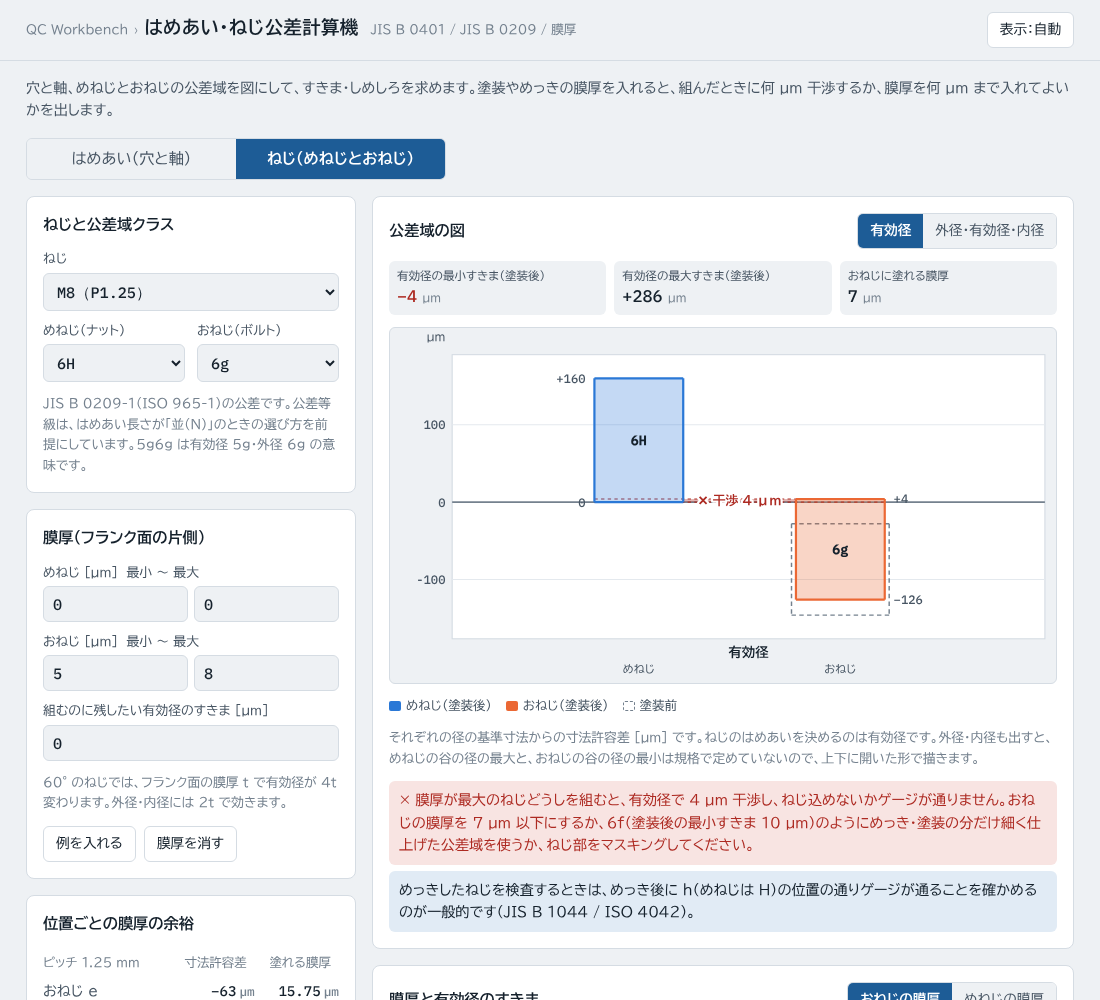
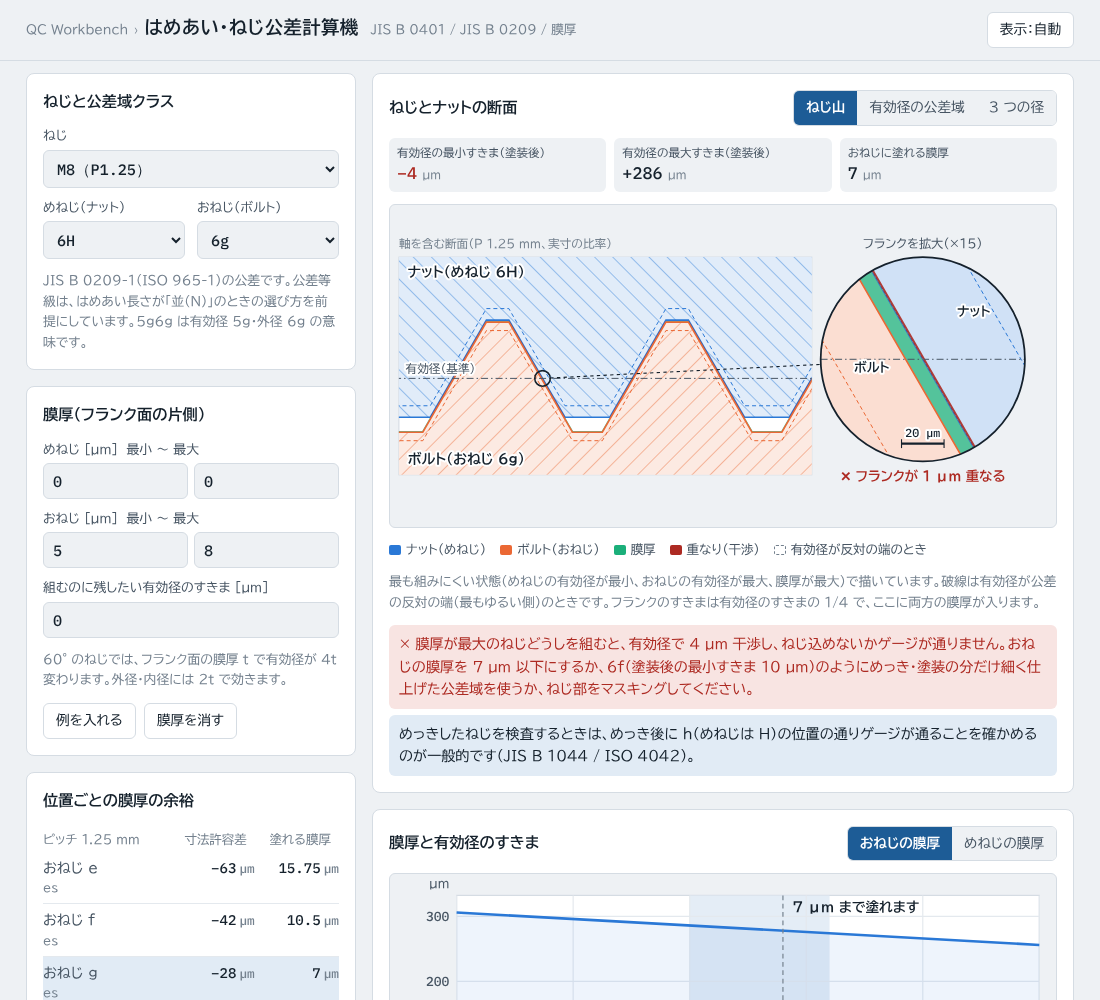
ねじの図をねじとナットの断面にし、フランクの拡大図を付ける

diff --git a/js/app.js b/js/app.js
@@ -21,7 +21,7 @@
   // ---- 状態 ----
   const FIT_EX = { D: '25', hl: 'H', hg: '7', sl: 'g', sg: '6', th0: '0', th1: '0', ts0: '10', ts1: '20', creq: '0' };
   const THR_EX = { sel: '8|1.25', d: '', P: '', ic: '6H', ec: '6g', ti0: '0', ti1: '0', te0: '5', te1: '8', creq: '0' };
-  const DEF = { mode: 'fit', fit: { ...FIT_EX, sweep: 's', list: 'hole' }, thr: { ...THR_EX, sweep: 'e', zone: 'pitch' } };
+  const DEF = { mode: 'fit', fit: { ...FIT_EX, sweep: 's', list: 'hole' }, thr: { ...THR_EX, sweep: 'e', zone: 'shape' } };
   let st = store.get(KEY);
   if (!st || !st.fit || !st.thr) st = JSON.parse(JSON.stringify(DEF));
   st.fit = { ...DEF.fit, ...st.fit }; st.thr = { ...DEF.thr, ...st.thr };
@@ -370,7 +370,7 @@
       ['有効径の最大すきま' + (coated ? '（塗装後）' : ''), sU(r.coated.cmax), 'µm', ''],
       [r.coat.i[1] > 0 && r.coat.e[1] === 0 ? 'めねじに塗れる膜厚' : 'おねじに塗れる膜厚', fU(Math.max(0, allowE)), 'µm', allowE < 0 ? 'ng' : '']
     ].map(([a, v, u, c]) => `<div class="${c}"><span>${esc(a)}</span><b>${esc(v)}</b> <small>${u}</small></div>`).join('');
-    drawThrZone(r, creq);
+    drawThrFigure(r, creq);
     drawSweep($('tSweepFig'), {
       k: 4, cmin0: r.bare.cmin, cmax0: r.bare.cmax, creq,
       otherMin: st.thr.sweep === 'e' ? r.coat.i[0] : r.coat.e[0], otherMax: st.thr.sweep === 'e' ? r.coat.i[1] : r.coat.e[1],
@@ -487,6 +487,133 @@
     s += `<text x="${L - 8}" y="${T - 10}" font-size="10" fill="${css('--ng')}" text-anchor="end">✕ 干渉あり</text>`;
     el.innerHTML = s + '</svg>';
     el.querySelectorAll('.pick').forEach(g => g.addEventListener('click', () => { st.thr.ec = g.dataset.c; fillInputs(); save(); render(); }));
+  }
+
+  // ねじとナットの断面（軸を含む断面）。左は実寸の比率、右の円は 1 つのフランクを拡大した図
+  // 最も組みにくい状態（めねじの有効径が最小・おねじの有効径が最大・膜厚が最大）で描く
+  // 座標は mm。x は軸方向、y は半径方向（有効径の基準の位置を 0、外向きを正）
+  function drawThrShape(r, creq) {
+    const el = $('tZone');
+    const narrow = el.clientWidth && el.clientWidth < 480;
+    const W = narrow ? 400 : 600, Hh = narrow ? 270 : 290;
+    const P = r.P, H = r.H, tn = Math.tan(Math.PI / 6);
+    const te = r.coat.e[1] / 1000, ti = r.coat.i[1] / 1000;          // 膜厚 [mm]
+    const se = r.ext.es / 2000, si = r.int.EI / 2000;                // 半径方向のずれ [mm]
+    const seL = (r.ext.es - r.ext.Td2) / 2000, siL = (r.int.EI + r.int.TD2) / 2000; // 最小実体
+    const yBc = 3 * H / 8, yBr = -H / 3, yNc = -H / 4, yNr = 3 * H / 8; // 山の頂と谷（基準）
+    const wBr = P / 4 + (H / 3) * tn;                                  // おねじの谷での山の半幅
+    const k0 = -3, k1 = 5;
+    const boltPath = sh => {
+      let d = `M${k0 * P - P / 2} ${-1.2 * H}`;
+      for (let k = k0; k <= k1; k++) {
+        d += ` L${k * P - wBr} ${yBr + sh} L${k * P - P / 16} ${yBc + sh} L${k * P + P / 16} ${yBc + sh} L${k * P + wBr} ${yBr + sh}`;
+      }
+      return d + ` L${k1 * P + P / 2} ${-1.2 * H} Z`;
+    };
+    const nutPath = sh => {
+      let d = `M${k0 * P} ${1.4 * H}`;
+      for (let k = k0; k <= k1; k++) {
+        const c = k * P + P / 2;
+        d += ` L${c - 7 * P / 16} ${yNr + sh} L${c - P / 8} ${yNc + sh} L${c + P / 8} ${yNc + sh} L${c + 7 * P / 16} ${yNr + sh}`;
+      }
+      return d + ` L${(k1 + 1) * P} ${1.4 * H} Z`;
+    };
+    const bP = boltPath(se), nP = nutPath(si), bL = boltPath(seL), nL = nutPath(siL);
+    const c1 = css('--s1'), c2 = css('--s2'), c3 = css('--s3'), ng = css('--ng'), sf = css('--surface'), ink = css('--ink'), ink2 = css('--ink2'), mut = css('--muted'), nf = NUMF();
+    const nsk = 'vector-effect="non-scaling-stroke"';
+    const halo = `paint-order="stroke" stroke="${sf}" stroke-width="3.5" stroke-linejoin="round"`;
+    // 部品と膜厚と重なりを描く（mm 座標）。hatch：断面のハッチングを付けるか
+    const layers = hatch => {
+      let s = '';
+      // 膜厚：輪郭に幅 2t の線を引き、内側の半分を本体の塗りで隠す
+      if (ti > 0) s += `<path d="${nP}" fill="none" stroke="${c3}" stroke-opacity=".75" stroke-width="${2 * ti}" stroke-linejoin="miter"/>`;
+      if (te > 0) s += `<path d="${bP}" fill="none" stroke="${c3}" stroke-opacity=".75" stroke-width="${2 * te}" stroke-linejoin="miter"/>`;
+      s += `<path d="${nP}" fill="${sf}"/><path d="${nP}" fill="${hatch ? 'url(#fcHatchN)' : c1}" fill-opacity="${hatch ? 1 : .22}" stroke="${c1}" stroke-width="1.6" ${nsk}/>`;
+      s += `<path d="${bP}" fill="${sf}"/><path d="${bP}" fill="${hatch ? 'url(#fcHatchB)' : c2}" fill-opacity="${hatch ? 1 : .22}" stroke="${c2}" stroke-width="1.6" ${nsk}/>`;
+      // 重なり（干渉）：おねじ（膜厚込み）の形で切り抜いたナット（膜厚込み）を赤で塗る
+      s += `<path d="${nP}" fill="${ng}" stroke="${ng}" stroke-width="${2 * ti}" fill-opacity=".9" stroke-opacity=".9" mask="url(#fcMaskB)"/>`;
+      // 最小実体の輪郭（有効径が公差の反対側の端のとき）
+      s += `<path d="${nL}" fill="none" stroke="${c1}" stroke-width="1" stroke-dasharray="4 3" ${nsk}/><path d="${bL}" fill="none" stroke="${c2}" stroke-width="1" stroke-dasharray="4 3" ${nsk}/>`;
+      // 有効径の基準の位置
+      s += `<line x1="${k0 * P}" x2="${k1 * P}" y1="0" y2="0" stroke="${ink2}" stroke-width="1" stroke-dasharray="7 3 1.5 3" ${nsk}/>`;
+      return s;
+    };
+
+    // ---- 配置 ----
+    const sx0 = 8, sx1 = narrow ? 250 : 380, sy0 = 26, sy1 = Hh - 26;   // 断面図の枠（px）
+    const xa = -0.55 * P, xb = 1.75 * P, ya = -0.62 * H, yb = 0.78 * H; // 見せる範囲（mm）
+    const sc = Math.min((sx1 - sx0) / (xb - xa), (sy1 - sy0) / (yb - ya));
+    const ox = sx0 + ((sx1 - sx0) - (xb - xa) * sc) / 2 - xa * sc, oy = sy0 + ((sy1 - sy0) - (yb - ya) * sc) / 2 + yb * sc;
+    const T = `translate(${ox} ${oy}) scale(${sc} ${-sc})`;
+    const toPx = (x, y) => [ox + x * sc, oy - y * sc];
+
+    // 拡大の中心：おねじの山 0 の右のフランクが有効径の基準を横切る点
+    const fx = P / 4, fy = 0;
+    // 拡大の半径（mm）：フランクのずれと膜厚がちょうど収まる大きさ
+    const feat = Math.max(Math.abs(r.ext.es) / 4 + r.coat.e[1], r.int.EI / 4 + r.coat.i[1], Math.abs(r.coated.cmin) / 4, 4) / 1000;
+    const Rz = feat * 3.2;
+    const zr = narrow ? 66 : 92, zcx = narrow ? W - zr - 10 : W - zr - 28, zcy = Hh / 2 - 6;
+    const zs = zr / Rz, mag = zs / sc;
+    const TZ = `translate(${zcx - fx * zs} ${zcy + fy * zs}) scale(${zs} ${-zs})`;
+
+    let s = svgOpen(W, Hh, 'ねじとナットの断面の図') + arrowDef();
+    // 定義：ハッチング、切り抜き、重なりのマスク（すべて mm 座標）
+    const hs = P / 14;
+    s += `<defs>
+      <pattern id="fcHatchN" patternUnits="userSpaceOnUse" width="${hs}" height="${hs}" patternTransform="rotate(45)"><rect width="${hs}" height="${hs}" fill="${c1}" fill-opacity=".14"/><line x1="0" y1="0" x2="0" y2="${hs}" stroke="${c1}" stroke-opacity=".55" stroke-width="${hs * 0.12}"/></pattern>
+      <pattern id="fcHatchB" patternUnits="userSpaceOnUse" width="${hs}" height="${hs}" patternTransform="rotate(-45)"><rect width="${hs}" height="${hs}" fill="${c2}" fill-opacity=".14"/><line x1="0" y1="0" x2="0" y2="${hs}" stroke="${c2}" stroke-opacity=".55" stroke-width="${hs * 0.12}"/></pattern>
+      <mask id="fcMaskB" maskUnits="userSpaceOnUse" maskContentUnits="userSpaceOnUse" x="${k0 * P - P}" y="${-2 * H}" width="${(k1 - k0 + 2) * P}" height="${4 * H}"><path d="${bP}" fill="#fff" stroke="#fff" stroke-width="${2 * te}" stroke-linejoin="miter"/></mask>
+      <clipPath id="fcClipS" clipPathUnits="userSpaceOnUse"><rect x="${xa}" y="${ya}" width="${xb - xa}" height="${yb - ya}"/></clipPath>
+      <clipPath id="fcClipZ" clipPathUnits="userSpaceOnUse"><circle cx="${fx}" cy="${fy}" r="${Rz}"/></clipPath>
+    </defs>`;
+    // 断面図
+    const [bx0, by0] = toPx(xa, yb), [bx1, by1] = toPx(xb, ya);
+    s += `<rect x="${bx0}" y="${by0}" width="${bx1 - bx0}" height="${by1 - by0}" fill="${sf}" stroke="${css('--line')}"/>`;
+    s += `<g transform="${T}"><g clip-path="url(#fcClipS)">${layers(true)}</g></g>`;
+    s += `<text x="${bx0 + 8}" y="${by0 + 18}" font-size="12.5" font-weight="700" fill="${ink}" ${halo}>ナット（めねじ ${esc(r.int.name)}）</text>`;
+    s += `<text x="${bx0 + 8}" y="${by1 - 10}" font-size="12.5" font-weight="700" fill="${ink}" ${halo}>ボルト（おねじ ${esc(r.ext.name)}）</text>`;
+    const [lx, ly] = toPx(xa, 0);
+    s += `<text x="${lx + 6}" y="${ly - 5}" font-size="10.5" fill="${ink2}" ${halo}>有効径（基準）</text>`;
+    s += `<text x="${bx0}" y="${by0 - 8}" font-size="10.5" fill="${mut}">軸を含む断面（P ${esc(fmt(P, P % 1 ? 2 : 0))} mm、実寸の比率）</text>`;
+    // 拡大の目印と引出線
+    const [px, py] = toPx(fx, fy), pr = Math.max(7, Rz * sc);
+    const ang = Math.atan2(zcy - py, zcx - px);
+    s += `<circle cx="${px}" cy="${py}" r="${pr}" fill="none" stroke="${ink}" stroke-width="1.4"/>`;
+    s += `<line x1="${px + pr * Math.cos(ang)}" y1="${py + pr * Math.sin(ang)}" x2="${zcx - zr * Math.cos(ang)}" y2="${zcy - zr * Math.sin(ang)}" stroke="${ink}" stroke-width="1" stroke-dasharray="3 3"/>`;
+    // 拡大図
+    s += `<circle cx="${zcx}" cy="${zcy}" r="${zr}" fill="${sf}"/>`;
+    s += `<g transform="${TZ}"><g clip-path="url(#fcClipZ)">${layers(false)}`;
+    // 基準のフランクの線（膜厚・寸法差がないときの位置）
+    const fl = (x0, y0, sgn) => `<line x1="${x0 - sgn * 2 * Rz * tn}" y1="${y0 - 2 * Rz}" x2="${x0 + sgn * 2 * Rz * tn}" y2="${y0 + 2 * Rz}" stroke="${mut}" stroke-width="1" stroke-dasharray="2 3" ${nsk}/>`;
+    s += fl(P / 4, 0, -1) + `</g></g>`;
+    s += `<circle cx="${zcx}" cy="${zcy}" r="${zr}" fill="none" stroke="${ink}" stroke-width="1.6"/>`;
+    // 拡大図の中の名前
+    const zp = (x, y) => [zcx + (x - fx) * zs, zcy - (y - fy) * zs];
+    const [nx, ny] = zp(fx + 0.5 * Rz, fy + 0.42 * Rz), [bx2, by2] = zp(fx - 0.5 * Rz, fy - 0.12 * Rz);
+    s += `<text x="${nx}" y="${ny}" font-size="11.5" font-weight="700" fill="${ink}" text-anchor="middle" ${halo}>ナット</text><text x="${bx2}" y="${by2}" font-size="11.5" font-weight="700" fill="${ink}" text-anchor="middle" ${halo}>ボルト</text>`;
+    // 目盛（µm）
+    const barUm = [1, 2, 5, 10, 20, 50, 100].find(v => v / 1000 * zs >= zr * 0.35) || 100;
+    const bw = barUm / 1000 * zs, bx = zcx - bw / 2, by = zcy + zr - 16;
+    s += `<line x1="${bx}" x2="${bx + bw}" y1="${by}" y2="${by}" stroke="${ink}" stroke-width="2"/><line x1="${bx}" x2="${bx}" y1="${by - 4}" y2="${by + 4}" stroke="${ink}"/><line x1="${bx + bw}" x2="${bx + bw}" y1="${by - 4}" y2="${by + 4}" stroke="${ink}"/>`;
+    s += `<text x="${zcx}" y="${by - 6}" font-size="10.5" fill="${ink}" text-anchor="middle" font-family="${nf}" ${halo}>${barUm} µm</text>`;
+    s += `<text x="${zcx}" y="${zcy - zr - 8}" font-size="11" fill="${ink2}" text-anchor="middle">フランクを拡大（×${esc(fmt(mag, 0))}）</text>`;
+    // フランクのすきま（法線方向）= 有効径のすきま ÷ 4
+    const g = r.coated.cmin / 4, bad = r.coated.cmin < creq;
+    s += `<text x="${zcx}" y="${zcy + zr + 18}" font-size="12" font-weight="700" fill="${bad ? ng : ink}" text-anchor="middle">${esc(g < 0 ? `✕ フランクが ${fU(-g)} µm 重なる` : `フランクのすきま ${fU(g)} µm`)}</text>`;
+    el.innerHTML = s + '</svg>';
+  }
+
+  // ねじの図の切り替え
+  function drawThrFigure(r, creq) {
+    const shape = st.thr.zone === 'shape' || !st.thr.zone;
+    $('tFigTitle').textContent = shape ? 'ねじとナットの断面' : '公差域の図';
+    $('tLegend').innerHTML = shape
+      ? `<span style="--c:var(--s1)">ナット（めねじ）</span><span style="--c:var(--s2)">ボルト（おねじ）</span><span style="--c:var(--s3)">膜厚</span><span style="--c:var(--ng)">重なり（干渉）</span><span class="dash" style="--c:var(--muted)">有効径が反対の端のとき</span>`
+      : `<span style="--c:var(--s1)">めねじ（塗装後）</span><span style="--c:var(--s2)">おねじ（塗装後）</span><span class="dash" style="--c:var(--muted)">塗装前</span>`;
+    $('tFigHint').textContent = shape
+      ? '最も組みにくい状態（めねじの有効径が最小、おねじの有効径が最大、膜厚が最大）で描いています。破線は有効径が公差の反対の端（最もゆるい側）のときです。フランクのすきまは有効径のすきまの 1/4 で、ここに両方の膜厚が入ります。'
+      : 'それぞれの径の基準寸法からの寸法許容差 [µm] です。ねじのはめあいを決めるのは有効径です。外径・内径も出すと、めねじの谷の径の最大と、おねじの谷の径の最小は規格で定めていないので、上下に開いた形で描きます。';
+    if (shape) drawThrShape(r, creq); else drawThrZone(r, creq);
   }
 
   // 計算のしかたの図：フランク面の膜厚 t で、山が半径方向に 2t 太り、有効径が 4t 変わる

diff --git a/index.html b/index.html
@@ -253,13 +253,13 @@ footer a { color: inherit; }
     <div class="col">
       <div class="box">
         <div class="row" style="justify-content:space-between">
-          <h2>公差域の図</h2>
-          <div class="seg" id="tZoneSel" role="group" aria-label="図に出す径"><button type="button" data-v="pitch" aria-pressed="true">有効径</button><button type="button" data-v="all" aria-pressed="false">外径・有効径・内径</button></div>
+          <h2 id="tFigTitle">ねじとナットの断面</h2>
+          <div class="seg" id="tZoneSel" role="group" aria-label="図の種類"><button type="button" data-v="shape" aria-pressed="true">ねじ山</button><button type="button" data-v="pitch" aria-pressed="false">有効径の公差域</button><button type="button" data-v="all" aria-pressed="false">3 つの径</button></div>
         </div>
         <div class="kpi" id="tKpi"></div>
         <div class="figure" id="tZone"></div>
-        <div class="legend"><span style="--c:var(--s1)">めねじ（塗装後）</span><span style="--c:var(--s2)">おねじ（塗装後）</span><span class="dash" style="--c:var(--muted)">塗装前</span></div>
-        <p class="hint">それぞれの径の基準寸法からの寸法許容差 [µm] です。ねじのはめあいを決めるのは有効径です。外径・内径も出すと、めねじの谷の径の最大と、おねじの谷の径の最小は規格で定めていないので、上下に開いた形で描きます。</p>
+        <div class="legend" id="tLegend"></div>
+        <p class="hint" id="tFigHint"></p>
         <div class="msgs" id="tMsgs"></div>
       </div>
       <div class="box">

diff --git a/tools/screenshots.py b/tools/screenshots.py
@@ -67,7 +67,7 @@ with sync_playwright() as p:
     o.screenshot(path=str(ROOT / 'og.png'))
     # ねじ
     pg.click('#mode button[data-v="thr"]'); pg.wait_for_timeout(300)
-    pg.evaluate("window.scrollTo(0, 0)"); pg.wait_for_timeout(200)
+    scroll_to(pg, '#thrPanel')
     pg.screenshot(path=str(OUT / 'thread.png'), full_page=False)
     m = open_page(b, viewport={'width': 390, 'height': 844}, device_scale_factor=2, is_mobile=True, has_touch=True, color_scheme='dark')
     scroll_to(m, '#fZone')

diff --git a/DEVELOPMENT.md b/DEVELOPMENT.md
@@ -37,5 +37,6 @@ node tests/test.js    # 不一致があれば終了コード 1
 - **軸 j・k**：j は 5・6 級と 7 級で ei が違い、8 級は 3 mm 以下だけ。k の ei は IT4〜IT7 で正、それ以外は 0
 - **ねじの表**：ISO 965-1 の表 1〜5 をそのまま持つ（式から計算して丸めると、M10 の TD2 などで表と合わないため）。有効径の公差は呼び径の区分（1.5〜355 mm の 8 区分）とピッチで引き、表にない組み合わせは誤りとして返す
 - **膜厚の効き**：平行部 2t、ねじの有効径 4t、ねじの外径・内径 2t（`factor`）。最小すきまは両方の膜厚が最大、最大すきまは両方が最小の組み合わせ
+- **ねじとナットの断面**（`drawThrShape`）：mm 座標で ISO 68-1 の基準山形（おねじの頂 3H/8・谷 d3、めねじの頂 D1・谷 D）を作り、有効径の寸法許容差の半分だけ半径方向にずらす。膜厚は輪郭に幅 2t の線を引いて内側の半分を本体の塗りで隠す（法線方向に t 太る）。重なりは、膜厚込みのボルトの形をマスクにして、膜厚込みのナットを赤で塗る。拡大図は同じ図形を一様に拡大して描くので、形はゆがまない
 - **入力の保存**：localStorage のキー `fit-calc-inputs`。読み書きはすべて try/catch で囲み、保存できない環境でも動きます
 - **テーマ**：QC Workbench の全ツールで共通のキー `qc-workbench-theme`

diff --git a/README.md b/README.md
@@ -52,7 +52,8 @@
 
 ### 出すもの
 
-- **公差域の図**：有効径（切り替えで外径・有効径・内径の 3 つ）の公差域を、塗装前と塗装後で描きます
+- **ねじとナットの断面**：軸を含む断面を実寸の比率で描き、ナット（めねじ）とボルト（おねじ）のねじ山、膜厚、重なり（干渉）を示します。最も組みにくい状態（めねじの有効径が最小・おねじの有効径が最大・膜厚が最大）で描き、有効径が反対の端のときの輪郭を破線で重ねます。1 つのフランクを円の中に拡大し、µm 単位のすきま・重なりを目盛つきで見られます
+- **公差域の図**（切り替え）：有効径、または外径・有効径・内径の 3 つの公差域を、塗装前と塗装後で描きます
 - **膜厚と有効径のすきまのグラフ**、**組み合わせ一覧**（めねじを固定して、おねじの公差域クラスを並べる）
 - **位置ごとの膜厚の余裕**：そのピッチで、おねじ e・f・g・h、めねじ G・H に塗れる膜厚の上限
 - **結果**：めねじの谷の径 D・有効径 D2・内径 D1、おねじの外径 d・有効径 d2・谷の径 d3 の最大・最小、有効径・外径側・内径側の最小すきま（塗装前・塗装後）、塗れる膜厚と判定
